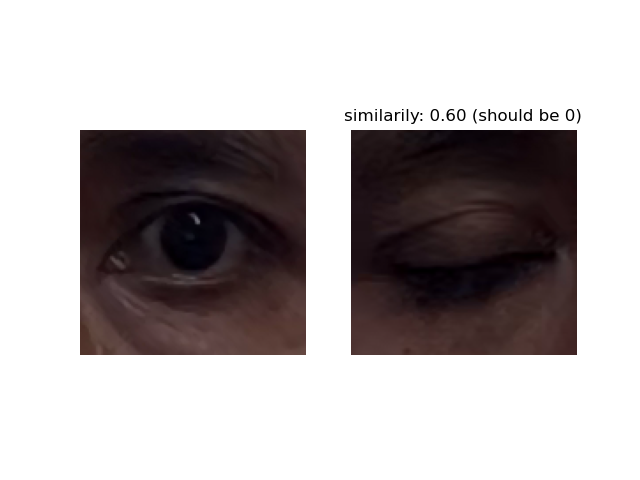
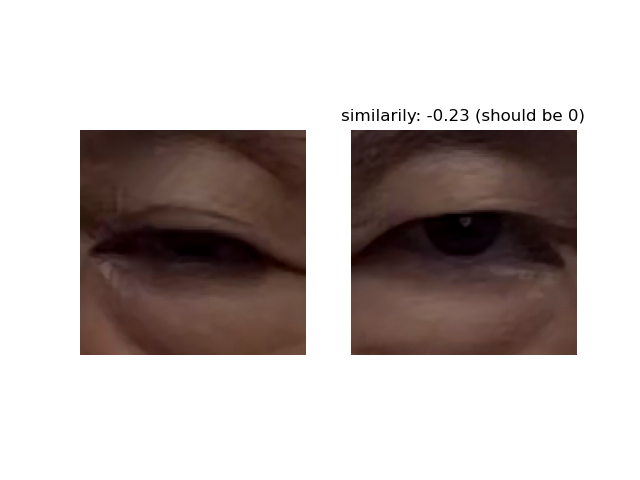
update to latest

diff --git a/deep-al/pycls/datasets/data.py b/deep-al/pycls/datasets/data.py
@@ -19,6 +19,7 @@ from pycls.datasets.tiny_imagenet import TinyImageNet
 from pycls.datasets.blink_dataset import BlinkDataset, ImageDataFrameBlinkingWrapper
 from pycls.datasets.blink_dataset_with_no_test_set import BlinkDataset2
 from pycls.datasets.blink_dataset_all import BlinkDatasetAll
+from pycls.datasets.blink_dataset_progressive import BlinkDatasetProgressive
 logger = lu.get_logger(__name__)
 
 class _RepeatSampler(object):
@@ -261,6 +262,9 @@ class Data:
         elif self.dataset ==  'IMBALANCED_CIFAR100':
             im_cifar100 = IMBALANCECIFAR100(save_dir, train=isTrain, transform=preprocess_steps, test_transform=test_preprocess_steps)
             return im_cifar100, len(im_cifar100)
+        elif "blinkprogressive" in self.dataset:
+            im_blink = BlinkDatasetProgressive(train=isTrain, transform=preprocess_steps, test_transform=test_preprocess_steps, dataset_path=save_dir, fold_idx=fold_idx)
+            return im_blink, len(im_blink)
         elif "blinkleaveoneout" in self.dataset:
             is_blinking = kwargs.get('is_blinking')
             im_blink = BlinkDatasetAll(dataset_path=save_dir, train=isTrain, transform=preprocess_steps, test_transform=test_preprocess_steps, use_faster=kwargs["use_faster"] if "use_faster" in kwargs else (is_blinking is None))
@@ -423,10 +427,53 @@ class Data:
         train_patient = set([dataset.get_patient_code_and_frame_from_idx(idx)['patient_code'] for idx in lSet])
         unlabel_patient = set([dataset.get_patient_code_and_frame_from_idx(idx)['patient_code'] for idx in uSet])
         assert len(train_patient.intersection(unlabel_patient)) == 0, "In the seperation phase, label and unlabel must be disjoint."
-        print("train_patient: ", train_patient)
-        print("unlabel_patient: ", unlabel_patient)
+        # print("train_patient: ", train_patient)
+        # print("unlabel_patient: ", unlabel_patient)
 
         return lSet, uSet
+    
+    def makeLUNSetsByPatients(self, labeled_patient_code, unlabeled_patient_code, dataset, save_dir):
+        lSet, uSet, nSet = Data.makeLUNSetsByPatientsNotSave(labeled_patient_code, unlabeled_patient_code, dataset)
+        np.save(f'{save_dir}/lSet.npy', lSet)
+        np.save(f'{save_dir}/uSet.npy', uSet)    
+        np.save(f'{save_dir}/nSet.npy', nSet)    
+        return f'{save_dir}/lSet.npy', f'{save_dir}/uSet.npy', f'{save_dir}/nSet.npy'
+    
+    @staticmethod
+    def makeLUNSetsByPatientsNotSave(labeled_patient_code, unlabeled_patient_code, dataset): # rename pls
+        # assert self.dataset in self.datasets_accepted, "Sorry the dataset {} is not supported. Currently we support {}".format(self.dataset, self.datasets_accepted)
+        # assert any([ds_name in self.dataset for ds_name in ["blink"]]), "Sorry the dataset {} is not supported. Currently we support {}".format(self.dataset, ["blink2"])
+        lSet = [];uSet = [];nSet = []
+
+        dataset_info = dataset.dataset_info
+        indices_table = dataset.indices_table
+        patient_code = dataset_info["patient_code"].unique()
+
+        notuse_patient_code = np.setdiff1d(patient_code, np.concatenate([labeled_patient_code, unlabeled_patient_code]))
+        for p_code in unlabeled_patient_code:
+            this_patient_info = dataset_info[dataset_info["patient_code"] == p_code]
+            for idx in this_patient_info.index:
+                uSet.append(np.arange(indices_table[idx], indices_table[idx+1], dtype="int32"))
+        uSet = np.concatenate(uSet)
+        for p_code in notuse_patient_code:
+            this_patient_info = dataset_info[dataset_info["patient_code"] == p_code]
+            for idx in this_patient_info.index:
+                nSet.append(np.arange(indices_table[idx], indices_table[idx+1], dtype="int32"))
+        nSet = np.concatenate(nSet)
+        for p_code in labeled_patient_code:
+            this_patient_info = dataset_info[dataset_info["patient_code"] == p_code]
+            for idx in this_patient_info.index:
+                lSet.append(np.arange(indices_table[idx], indices_table[idx+1], dtype="int32"))
+        lSet = np.concatenate(lSet)
+
+        # sanity check
+        train_patient = set([dataset.get_patient_code_and_frame_from_idx(idx)['patient_code'] for idx in lSet])
+        unlabel_patient = set([dataset.get_patient_code_and_frame_from_idx(idx)['patient_code'] for idx in uSet])
+        notuse_patient = set([dataset.get_patient_code_and_frame_from_idx(idx)['patient_code'] for idx in nSet])
+        assert len(train_patient.intersection(unlabel_patient)
+                   .union(train_patient.intersection(notuse_patient))
+                   .union(unlabel_patient.intersection(notuse_patient))) == 0, "In the seperation phase, label and unlabel and validation must be disjoint."
+        return lSet, uSet, nSet
 
 
     def makeTVSets(self, val_split_ratio, data, seed_id, save_dir):
@@ -630,22 +677,22 @@ class Data:
             raise NotImplementedError
 
 
-    def loadPartitions(self, lSetPath, uSetPath, valSetPath):
+    # def loadPartitions(self, lSetPath, uSetPath, valSetPath):
 
-        assert isinstance(lSetPath, str), "Expected lSetPath to be a string."
-        assert isinstance(uSetPath, str), "Expected uSetPath to be a string."
-        assert isinstance(valSetPath, str), "Expected valSetPath to be a string."
+    #     assert isinstance(lSetPath, str), "Expected lSetPath to be a string."
+    #     assert isinstance(uSetPath, str), "Expected uSetPath to be a string."
+    #     assert isinstance(valSetPath, str), "Expected valSetPath to be a string."
 
-        lSet = np.load(lSetPath, allow_pickle=True)
-        uSet = np.load(uSetPath, allow_pickle=True)
-        valSet = np.load(valSetPath, allow_pickle=True)
+    #     lSet = np.load(lSetPath, allow_pickle=True)
+    #     uSet = np.load(uSetPath, allow_pickle=True)
+    #     valSet = np.load(valSetPath, allow_pickle=True)
 
-        #Checking no overlap
-        assert len(set(valSet) & set(uSet)) == 0,"Intersection is not allowed between validationset and uset"
-        assert len(set(valSet) & set(lSet)) == 0,"Intersection is not allowed between validationset and lSet"
-        assert len(set(uSet) & set(lSet)) == 0,"Intersection is not allowed between uSet and lSet"
+    #     #Checking no overlap
+    #     assert len(set(valSet) & set(uSet)) == 0,"Intersection is not allowed between validationset and uset"
+    #     assert len(set(valSet) & set(lSet)) == 0,"Intersection is not allowed between validationset and lSet"
+    #     assert len(set(uSet) & set(lSet)) == 0,"Intersection is not allowed between uSet and lSet"
 
-        return lSet, uSet, valSet
+    #     return lSet, uSet, valSet
     
     def loadLUPartitions(self, lSetPath, uSetPath):
         assert isinstance(lSetPath, str), "Expected lSetPath to be a string."
@@ -657,6 +704,16 @@ class Data:
         #Checking no overlap
         assert len(set(uSet) & set(lSet)) == 0,"Intersection is not allowed between uSet and lSet"
         return lSet, uSet
+
+    def loadPartitions(self, *idx_path):
+        assert all([isinstance(p, str) for p in idx_path]), "Expected Path to be a string."
+
+        idx = [np.load(p, allow_pickle=True) for p in idx_path]
+
+        #Checking no overlap
+        v, count = np.unique(np.concatenate(idx), return_counts=True)
+        assert (count == 1).all(),"Intersection is not allowed between uSet and lSet"
+        return idx
 
     def loadTVPartitions(self, trainSetPath, valSetPath):
 

diff --git a/scan/utils/common_config.py b/scan/utils/common_config.py
@@ -16,6 +16,7 @@ def add_path(path):
         sys.path.insert(0, path)
 add_path(os.path.abspath('../deep-al'))
 from pycls.datasets.blink_dataset_all import BlinkDatasetAll
+from pycls.datasets.blink_dataset_progressive import BlinkDatasetProgressive
 from pycls.datasets.data import Data
 
 def get_criterion(p):
@@ -180,6 +181,17 @@ def get_train_dataset(p, transform, to_augmented_dataset=False,
         from data.imagenet import ImageNetSubset
         subset_file = './data/imagenet_subsets/%s.txt' %(p['train_db_name'])
         dataset = ImageNetSubset(subset_file=subset_file, split='train', transform=transform)
+    elif "blink_progressive" in p['train_db_name']:
+        dataset = BlinkDatasetProgressive(train=True, transform=None, test_transform=None, dataset_path="../../../pytorchlm")
+        FOLDS = 5
+        dataset_info = dataset.dataset_info
+        fold_idx = p["fold_idx"]
+        train_patient_code = dataset_info[dataset_info["fold_idx"] == (fold_idx + 1) % FOLDS]["patient_code"].unique()
+        unlabel_patient_code = dataset_info[(dataset_info["fold_idx"] != (fold_idx + 2) % FOLDS) & (dataset_info["fold_idx"] != (fold_idx + 1) % FOLDS) & (dataset_info["fold_idx"] != (fold_idx) % FOLDS)]["patient_code"].unique()
+        # val_patient_code = dataset_info[(dataset_info["fold_idx"] == (fold_idx + 2) % FOLDS)]["patient_code"].unique()
+        train_idx, _, _ = Data.makeLUNSetsByPatientsNotSave(train_patient_code, unlabel_patient_code, dataset)
+        dataset = torch.utils.data.Subset(dataset, train_idx)
+        dataset = DSWrapper(dataset, transform)
 
     elif "blink_all" in p['train_db_name']:
         dataset = BlinkDatasetAll(train=True, transform=None, test_transform=None, dataset_path="../../../pytorchlm")
@@ -244,6 +256,17 @@ def get_val_dataset(p, transform=None, to_neighbors_dataset=False):
         from data.imagenet import ImageNetSubset
         subset_file = './data/imagenet_subsets/%s.txt' %(p['val_db_name'])
         dataset = ImageNetSubset(subset_file=subset_file, split='val', transform=transform)
+    elif "blink_progressive" in p['train_db_name']:
+        dataset = BlinkDatasetProgressive(train=False, transform=transform, test_transform=None, dataset_path="../../../pytorchlm")
+        # FOLDS = 5
+        # dataset_info = dataset.dataset_info
+        # fold_idx = p["fold_idx"]
+        # train_patient_code = dataset_info[dataset_info["fold_idx"] == (fold_idx + 1) % FOLDS]["patient_code"].unique()
+        # unlabel_patient_code = dataset_info[(dataset_info["fold_idx"] != (fold_idx + 2) % FOLDS) & (dataset_info["fold_idx"] != (fold_idx + 1) % FOLDS) & (dataset_info["fold_idx"] != (fold_idx) % FOLDS)]["patient_code"].unique()
+        # val_patient_code = dataset_info[(dataset_info["fold_idx"] == (fold_idx + 2) % FOLDS)]["patient_code"].unique()
+        # train_idx, unlabel_idx, _ = Data.makeLUNSetsByPatientsNotSave(train_patient_code, unlabel_patient_code, dataset)
+        # dataset = torch.utils.data.Subset(dataset, np.concatenate([train_idx, unlabel_idx]))
+        dataset = DSWrapper(dataset, transform)
     elif "blink_all" in p["train_db_name"]:
         dataset = BlinkDatasetAll(train=False, transform=transform, test_transform=None, dataset_path="../../../pytorchlm")
         # pcode_to_include = p["fold_idx"]

diff --git a/scan/blink_simclr.py b/scan/blink_simclr.py
@@ -59,6 +59,9 @@ def main():
     # fold_in_name = m.group(1)
     # assert str(p["fold_idx"]) == fold_in_name
     
+    device = torch.device("cuda", args.gpu_id)
+    print(device)
+
     # Model
     print(colored('Retrieve model', 'blue'))
     model = get_model(p)
@@ -100,12 +103,14 @@ def main():
     # else:
     base_dataset = get_val_dataset(p, val_transforms) # Dataset w/o augs for knn eval
     base_dataloader = get_val_dataloader(p, base_dataset)
-    # next(iter(base_dataloader))
+    print("base dataset:", len(base_dataset))
+    # exit(0)
+
     memory_bank_base = MemoryBank(len(base_dataset), 
                                 p['model_kwargs']['features_dim'],
                                 p['num_classes'], p['criterion_kwargs']['temperature'], 
                                 p['model_kwargs']['pre_lasts_dim'])
-    memory_bank_base.cuda()
+    memory_bank_base.to(device)
     # memory_bank_val = MemoryBank(len(val_dataset),
     #                             p['model_kwargs']['features_dim'],
     #                             p['num_classes'], p['criterion_kwargs']['temperature'],
@@ -117,12 +122,10 @@ def main():
     criterion = get_criterion(p)
     print('Criterion is {}'.format(criterion.__class__.__name__))
     criterion = criterion.cuda()
-
     # Optimizer and scheduler
     print(colored('Retrieve optimizer', 'blue'))
     optimizer = get_optimizer(p, model)
     print(optimizer)
-    device = torch.device("cuda", args.gpu_id)
  
     # Checkpoint
     if os.path.exists(p['pretext_checkpoint']):
@@ -257,6 +260,7 @@ def main():
 
 if __name__ == '__main__':
     assert args.gpu_id in [0, 1]
+    print("gpu_id:", args.gpu_id)
     if args.use_batch_sampler:
         main()
     else:

diff --git a/deep-al/pycls/core/config.py b/deep-al/pycls/core/config.py
@@ -25,7 +25,8 @@ _C.NUM_GPUS = 1
 # _C.INDICATE_BEST_BY = "validation_mses_nb"
 _C.MODEL_GRAVEYARD = "../model_graveyard"
 _C.MODEL_INIT_WEIGHTS = "../model_graveyard/init_weights/pipnet_init_weights.pt"
-_C.PRETRAINED_WEIGHTS_EACH_PATIENT = "../model_graveyard_but_leaveoneout/test/{patient_code}/init_best_{n_train}n.pt"
+_C.PRETRAINED_WEIGHTS_EACH_PATIENT = "../model_graveyard_but_leaveoneout/init/{patient_code}/init_best_{n_train}n.pt"
+_C.PROGRESSIVE_ADD_IN_LSET = False
 
 # Output directory (will be created at the projec root)
 _C.OUT_DIR = 'output'
@@ -241,7 +242,7 @@ _C.DATASET.VAL_RATIO = 0.1
 # Data augmentation methods - 'simclr', 'randaug', 'hflip'
 _C.DATASET.AUG_METHOD = 'hflip' 
 # Accepted Datasets
-_C.DATASET.ACCEPTED = ["blinkleaveoneout", "blink_fold0", "blink_fold1", "blink_fold2", "blink_fold3", "blink2_fold0", "blink2_fold1", "blink2_fold2", "blink2_fold3", "blink2_fold4", 'MNIST','SVHN','CIFAR10','CIFAR100','TINYIMAGENET', 'IMBALANCED_CIFAR10', 'IMBALANCED_CIFAR100', 'IMAGENET50', 'IMAGENET100', 'IMAGENET200']
+_C.DATASET.ACCEPTED = ["blinkprogressive", "blinkleaveoneout", "blink_fold0", "blink_fold1", "blink_fold2", "blink_fold3", "blink2_fold0", "blink2_fold1", "blink2_fold2", "blink2_fold3", "blink2_fold4", 'MNIST','SVHN','CIFAR10','CIFAR100','TINYIMAGENET', 'IMBALANCED_CIFAR10', 'IMBALANCED_CIFAR100', 'IMAGENET50', 'IMAGENET100', 'IMAGENET200']
 
 _C.DATASET.FOLD_IDX = 0
 

diff --git a/deep-al/tools/train_al_new.py b/deep-al/tools/train_al_new.py
@@ -861,21 +861,8 @@ def main(cfg):
                                       pil_augment=False)
     
     # plot assertion, if any keypoint are not align, check immediately
-    xy = train_dataset[0]
-    img = xy[0]
-    plt.figure()
-    kp, kp_merge = process_pip_out(xy[1].unsqueeze(0), xy[2].unsqueeze(0), xy[3].unsqueeze(0), xy[4].unsqueeze(0), xy[5].unsqueeze(0), reverse_index1, reverse_index2, max_len)
-    imshow_kp(img, lms_pred=kp)
-    plt.savefig(os.path.join(exp_dir, "assert-train.png"), bbox_inches='tight')
-    assert np.isclose(kp, kp_merge).all()
-    
-    xy = val_dataset[0]
-    img = xy[0]
-    plt.figure()
-    kp, kp_merge = process_pip_out(xy[1].unsqueeze(0), xy[2].unsqueeze(0), xy[3].unsqueeze(0), xy[4].unsqueeze(0), xy[5].unsqueeze(0), reverse_index1, reverse_index2, max_len)
-    imshow_kp(img, lms_pred=kp)
-    plt.savefig(os.path.join(exp_dir, "assert-val.png"), bbox_inches='tight')
-    assert np.isclose(kp, kp_merge).all()
+    assert sanity_check_dataset(train_dataset, exp_dir, reverse_index1, reverse_index2, max_len)
+
 
     train_dataloader_wrapper = functools.partial(DataLoader, batch_size=cfg.TRAIN.BATCH_SIZE, num_workers=8, shuffle=True, pin_memory=False)
     val_dataloader_wrapper = functools.partial(DataLoader, batch_size=512, num_workers=0, shuffle=False, pin_memory=False)

diff --git a/deep-al/pycls/al/prob_cover.py b/deep-al/pycls/al/prob_cover.py
@@ -16,7 +16,6 @@ class ProbCover:
         self.budgetSize = budgetSize
         self.delta = delta
         self.relevant_indices = np.concatenate([self.lSet, self.uSet]).astype(int)
-        print(self.all_features.shape)
         self.rel_features = self.all_features[self.relevant_indices]
         self.graph_df = self.construct_graph()
 
@@ -31,7 +30,7 @@ class ProbCover:
         xs, ys, ds = [], [], []
         print(f'Start constructing graph using delta={self.delta}')
         # distance computations are done in GPU
-        cuda_feats = torch.tensor(self.rel_features).cuda()
+        cuda_feats = torch.tensor(self.rel_features).to(f"cuda:{self.cfg.GPU_ID}")
         for i in range(len(self.rel_features) // batch_size):
             # distance comparisons are done in batches to reduce memory consumption
             cur_feats = cuda_feats[i * batch_size: (i + 1) * batch_size]

diff --git a/scan/utils/memory_wo_target.py b/scan/utils/memory_wo_target.py
@@ -81,8 +81,8 @@ class MemoryBank(object):
         self.pre_lasts = self.pre_lasts.to(device)
         self.device = device
 
-    def cpu(self):
-        self.to('cpu')
+    # def cpu(self):
+    #     self.to('cpu')
 
-    def cuda(self):
-        self.to('cuda:0')
+    # def cuda(self):
+    #     self.to('cuda:0')

diff --git a/deep-al/tools/train_al_leaveoneout.py b/deep-al/tools/train_al_leaveoneout.py
@@ -472,7 +472,7 @@ def main(cfg):
         pil_augment = True
         criterion_cls = nn.MSELoss()
         criterion_reg = nn.L1Loss()
-        scheduler = None
+        scheduler = None # this is builtin to the optim
         
         indicate_best_by = cfg.TRAIN.INDICATE_BEST_BY
         how_best="min"

diff --git a/deep-al/tools/utils.py b/deep-al/tools/utils.py
@@ -184,7 +184,7 @@ class CustomImageDataset4(Dataset):
 
         # cache for small dataset
         self.cache_xy = None
-        if len(self.allow_idxs) < 5000:
+        if len(self.allow_idxs) < 10000:
             self.cache_xy = [None] * len(self.allow_idxs)
         
     def __len__(self):
